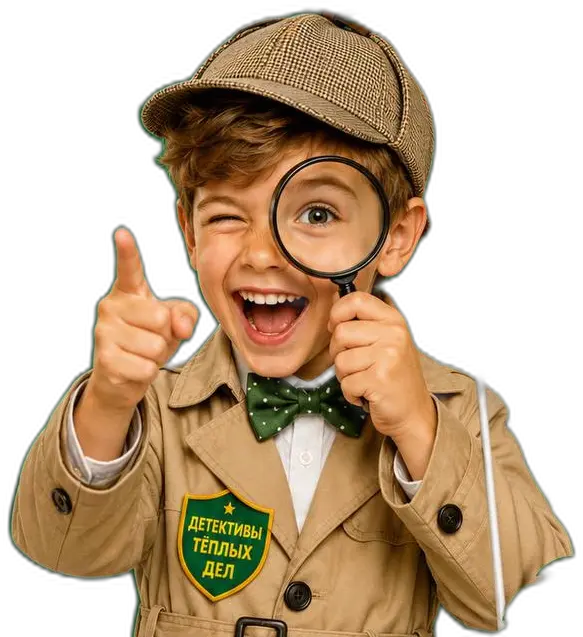
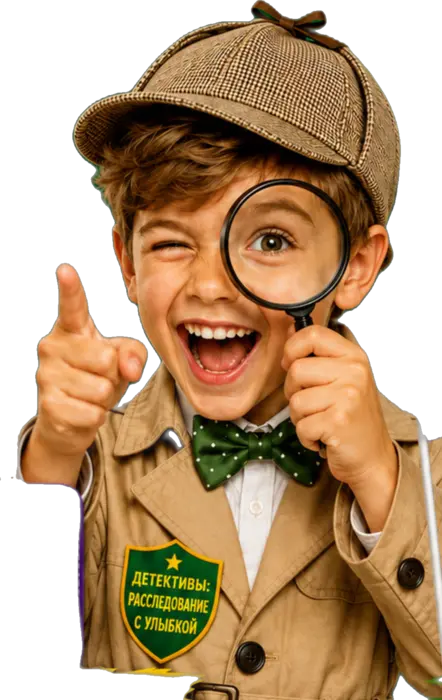
vipusk

diff --git a/vypusknoy.html b/vypusknoy.html
@@ -156,10 +156,10 @@
     <div class="program-pkg-grid">
 
       <div class="program-pkg">
-        <div class="program-pkg__photo"><img src="assets/vypusknoy/detektivy-teplyh-del.webp" alt="Детективы тёплых дел"></div>
+        <div class="program-pkg__photo"><img src="assets/vypusknoy/detektivy-teplyh-del.webp" alt="Детективы: расследование с улыбкой"></div>
         <div class="program-pkg__head">
-          <h2 class="program-pkg__title">Детективы тёплых дел</h2>
-          <p class="program-pkg__subtitle">Расследование с улыбкой</p>
+          <h2 class="program-pkg__title">Детективы: расследование с улыбкой</h2>
+          <p class="program-pkg__subtitle">Для начальной школы</p>
         </div>
         <div class="program-pkg__body">
           <div class="program-pkg__meta">
@@ -167,27 +167,148 @@
             <span class="meta-chip">от 11 детей</span>
           </div>
 
-          <p class="program-pkg__desc">В парке случилось загадочное происшествие — пропала Улыбка Лета! Без неё деревья стали слишком серьёзными, цветы загрустили, а птицы совсем забыли весёлые песни. Пора собирать команду юных сыщиков и отправляться на поиски!</p>
-          <p class="program-pkg__desc">Ребят ждёт настоящее детективное приключение: они будут открывать секретные конверты с заданиями, искать спрятанные «следы радости», проверять свою внимательность в игре «Что изменилось вокруг?» и расшифровывать весёлые коды, из которых складываются добрые слова. А в финале всей команде предстоит собрать большой пазл, разгадать последнюю подсказку и вернуть Улыбку Лета обратно в «Джунгли Сити»!</p>
+          <p class="program-pkg__desc">В «Джунгли Сити» пропала Улыбка Лета! Юным сыщикам предстоит искать тайные подсказки, открывать секретные конверты, разгадывать весёлые коды и всей командой раскрыть главное дело праздника.</p>
 
           <p class="program-pkg__list-title">В программе:</p>
           <ul class="program-pkg__list">
-            <li><svg viewBox="0 0 24 24" fill="none" stroke="currentColor" stroke-width="2.5" stroke-linecap="round" stroke-linejoin="round"><path d="M20 6L9 17l-5-5"/></svg>Задания и загадки</li>
-            <li><svg viewBox="0 0 24 24" fill="none" stroke="currentColor" stroke-width="2.5" stroke-linecap="round" stroke-linejoin="round"><path d="M20 6L9 17l-5-5"/></svg>Поиск спрятанных подсказок</li>
-            <li><svg viewBox="0 0 24 24" fill="none" stroke="currentColor" stroke-width="2.5" stroke-linecap="round" stroke-linejoin="round"><path d="M20 6L9 17l-5-5"/></svg>Игры на внимание и наблюдательность</li>
-            <li><svg viewBox="0 0 24 24" fill="none" stroke="currentColor" stroke-width="2.5" stroke-linecap="round" stroke-linejoin="round"><path d="M20 6L9 17l-5-5"/></svg>Расшифровка кодов</li>
-            <li><svg viewBox="0 0 24 24" fill="none" stroke="currentColor" stroke-width="2.5" stroke-linecap="round" stroke-linejoin="round"><path d="M20 6L9 17l-5-5"/></svg>Командный финальный пазл</li>
+            <li><svg viewBox="0 0 24 24" fill="none" stroke="currentColor" stroke-width="2.5" stroke-linecap="round" stroke-linejoin="round"><path d="M20 6L9 17l-5-5"/></svg>Детективные загадки и задания</li>
+            <li><svg viewBox="0 0 24 24" fill="none" stroke="currentColor" stroke-width="2.5" stroke-linecap="round" stroke-linejoin="round"><path d="M20 6L9 17l-5-5"/></svg>Поиск «следов радости»</li>
+            <li><svg viewBox="0 0 24 24" fill="none" stroke="currentColor" stroke-width="2.5" stroke-linecap="round" stroke-linejoin="round"><path d="M20 6L9 17l-5-5"/></svg>Игры на внимание</li>
+            <li><svg viewBox="0 0 24 24" fill="none" stroke="currentColor" stroke-width="2.5" stroke-linecap="round" stroke-linejoin="round"><path d="M20 6L9 17l-5-5"/></svg>Секретные шифры</li>
+            <li><svg viewBox="0 0 24 24" fill="none" stroke="currentColor" stroke-width="2.5" stroke-linecap="round" stroke-linejoin="round"><path d="M20 6L9 17l-5-5"/></svg>Большой командный пазл в финале</li>
           </ul>
 
           <div class="program-pkg__bonus">
             <svg viewBox="0 0 24 24" fill="none" stroke="currentColor" stroke-width="1.7" stroke-linecap="round" stroke-linejoin="round"><rect x="4" y="10.5" width="16" height="9.5" rx="1"/><path d="M4 14.5h16"/><path d="M12 10.5v9.5"/><path d="M12 10.5c-1.2-3.2-5.2-3-5 .3.1 0-.2-.3 5-.3Z"/><path d="M12 10.5c1.2-3.2 5.2-3 5 .3-.1 0 .2-.3-5-.3Z"/></svg>
-            Мастер-класс по созданию подарка выпускнику
+            Мастер-класс по созданию памятного подарка
           </div>
 
           <div class="program-pkg__addons">
             <p class="program-pkg__addons-title">Дополнить программу шоу:</p>
             <ul>
-              <li>Серебряная дискотека</li>
+              <li>Весёлые опыты</li>
+              <li>Мыльные пузыри</li>
+              <li>Гигантская дискотека с надувными подушками и мягким поролоном</li>
+            </ul>
+            <span class="program-pkg__price">от 350 ₽/ребёнок</span>
+          </div>
+        </div>
+      </div>
+
+      <div class="program-pkg">
+        <div class="program-pkg__photo"><img src="assets/vypusknoy/gorod-professiy.webp" alt="Город профессий"></div>
+        <div class="program-pkg__head">
+          <h2 class="program-pkg__title">Город профессий</h2>
+          <p class="program-pkg__subtitle">Для детского сада</p>
+        </div>
+        <div class="program-pkg__body">
+          <div class="program-pkg__meta">
+            <span class="meta-chip">60 мин</span>
+            <span class="meta-chip">от 11 детей</span>
+          </div>
+
+          <p class="program-pkg__desc">В «Джунгли Сити» открывается город необычных профессий! Ребят ждут весёлые испытания, где пригодятся ловкость, фантазия и умение работать в команде.</p>
+          <p class="program-pkg__desc">Здесь можно создавать рецепты радости, строить целые города и превращать самые обычные вещи в настоящее веселье!</p>
+
+          <p class="program-pkg__list-title">В программе:</p>
+          <ul class="program-pkg__list">
+            <li><svg viewBox="0 0 24 24" fill="none" stroke="currentColor" stroke-width="2.5" stroke-linecap="round" stroke-linejoin="round"><path d="M20 6L9 17l-5-5"/></svg>Весёлая эстафета «Добавьте радости!»</li>
+            <li><svg viewBox="0 0 24 24" fill="none" stroke="currentColor" stroke-width="2.5" stroke-linecap="round" stroke-linejoin="round"><path d="M20 6L9 17l-5-5"/></svg>Задания на ловкость и скорость</li>
+            <li><svg viewBox="0 0 24 24" fill="none" stroke="currentColor" stroke-width="2.5" stroke-linecap="round" stroke-linejoin="round"><path d="M20 6L9 17l-5-5"/></svg>Необычные профессии и роли</li>
+            <li><svg viewBox="0 0 24 24" fill="none" stroke="currentColor" stroke-width="2.5" stroke-linecap="round" stroke-linejoin="round"><path d="M20 6L9 17l-5-5"/></svg>Строительство «Города Весёлых Соседей»</li>
+            <li><svg viewBox="0 0 24 24" fill="none" stroke="currentColor" stroke-width="2.5" stroke-linecap="round" stroke-linejoin="round"><path d="M20 6L9 17l-5-5"/></svg>Большой командный финал</li>
+          </ul>
+
+          <div class="program-pkg__bonus">
+            <svg viewBox="0 0 24 24" fill="none" stroke="currentColor" stroke-width="1.7" stroke-linecap="round" stroke-linejoin="round"><rect x="4" y="10.5" width="16" height="9.5" rx="1"/><path d="M4 14.5h16"/><path d="M12 10.5v9.5"/><path d="M12 10.5c-1.2-3.2-5.2-3-5 .3.1 0-.2-.3 5-.3Z"/><path d="M12 10.5c1.2-3.2 5.2-3 5 .3-.1 0 .2-.3-5-.3Z"/></svg>
+            Мастер-класс по созданию памятного подарка
+          </div>
+
+          <div class="program-pkg__addons">
+            <p class="program-pkg__addons-title">Дополнить программу шоу:</p>
+            <ul>
+              <li>Весёлые опыты</li>
+              <li>Мыльные пузыри</li>
+              <li>Гигантская дискотека с надувными подушками и мягким поролоном</li>
+            </ul>
+            <span class="program-pkg__price">от 350 ₽/ребёнок</span>
+          </div>
+        </div>
+      </div>
+
+      <div class="program-pkg">
+        <div class="program-pkg__photo"><img src="assets/vypusknoy/tusa-dzhusa.webp" alt="Туса Джуса"></div>
+        <div class="program-pkg__head">
+          <h2 class="program-pkg__title">Туса Джуса</h2>
+          <p class="program-pkg__subtitle">Для любого возраста</p>
+        </div>
+        <div class="program-pkg__body">
+          <div class="program-pkg__meta">
+            <span class="meta-chip">60 мин</span>
+            <span class="meta-chip">от 11 детей</span>
+          </div>
+
+          <p class="program-pkg__desc">В «Джунгли Сити» начинается настоящий блогерский батл! Ребят ждут шумные челленджи, смешные задания, яркие перевоплощения и командные испытания.</p>
+          <p class="program-pkg__desc">Здесь главное — собрать максимум эмоций, смеха и лайков!</p>
+
+          <p class="program-pkg__list-title">В программе:</p>
+          <ul class="program-pkg__list">
+            <li><svg viewBox="0 0 24 24" fill="none" stroke="currentColor" stroke-width="2.5" stroke-linecap="round" stroke-linejoin="round"><path d="M20 6L9 17l-5-5"/></svg>Челлендж «Переозвучка»</li>
+            <li><svg viewBox="0 0 24 24" fill="none" stroke="currentColor" stroke-width="2.5" stroke-linecap="round" stroke-linejoin="round"><path d="M20 6L9 17l-5-5"/></svg>«Зеркальный батл»</li>
+            <li><svg viewBox="0 0 24 24" fill="none" stroke="currentColor" stroke-width="2.5" stroke-linecap="round" stroke-linejoin="round"><path d="M20 6L9 17l-5-5"/></svg>«Съедобное — несъедобное 2.0»</li>
+            <li><svg viewBox="0 0 24 24" fill="none" stroke="currentColor" stroke-width="2.5" stroke-linecap="round" stroke-linejoin="round"><path d="M20 6L9 17l-5-5"/></svg>«Селфи-гонка»</li>
+            <li><svg viewBox="0 0 24 24" fill="none" stroke="currentColor" stroke-width="2.5" stroke-linecap="round" stroke-linejoin="round"><path d="M20 6L9 17l-5-5"/></svg>Финальный танец блогеров</li>
+          </ul>
+
+          <div class="program-pkg__bonus">
+            <svg viewBox="0 0 24 24" fill="none" stroke="currentColor" stroke-width="1.7" stroke-linecap="round" stroke-linejoin="round"><rect x="4" y="10.5" width="16" height="9.5" rx="1"/><path d="M4 14.5h16"/><path d="M12 10.5v9.5"/><path d="M12 10.5c-1.2-3.2-5.2-3-5 .3.1 0-.2-.3 5-.3Z"/><path d="M12 10.5c1.2-3.2 5.2-3 5 .3-.1 0 .2-.3-5-.3Z"/></svg>
+            Мастер-класс по созданию памятного подарка
+          </div>
+
+          <div class="program-pkg__addons">
+            <p class="program-pkg__addons-title">Дополнить программу шоу:</p>
+            <ul>
+              <li>Весёлые опыты</li>
+              <li>Мыльные пузыри</li>
+              <li>Гигантская дискотека с надувными подушками и мягким поролоном</li>
+            </ul>
+            <span class="program-pkg__price">от 350 ₽/ребёнок</span>
+          </div>
+        </div>
+      </div>
+
+      <div class="program-pkg">
+        <div class="program-pkg__photo"><img src="assets/vypusknoy/skazochnyj-komas.webp" alt="Сказочный Комас"></div>
+        <div class="program-pkg__head">
+          <h2 class="program-pkg__title">Сказочный Комас</h2>
+          <p class="program-pkg__subtitle">Для маленькой компании</p>
+        </div>
+        <div class="program-pkg__body">
+          <div class="program-pkg__meta">
+            <span class="meta-chip">40 мин</span>
+            <span class="meta-chip">от 7 до 10 детей</span>
+          </div>
+
+          <p class="program-pkg__desc">В «Джунгли Сити» сказки вдруг заскучали — и только ребята смогут вернуть им радость! Вместе с любимыми героями дети отправятся в весёлое путешествие.</p>
+          <p class="program-pkg__desc">Будут искать подсказки, спасать пирожки, преодолевать болото, проверять богатырскую силу и танцевать с Ясным Солнышком!</p>
+
+          <p class="program-pkg__list-title">В программе:</p>
+          <ul class="program-pkg__list">
+            <li><svg viewBox="0 0 24 24" fill="none" stroke="currentColor" stroke-width="2.5" stroke-linecap="round" stroke-linejoin="round"><path d="M20 6L9 17l-5-5"/></svg>Большая книга сказок с подсказками</li>
+            <li><svg viewBox="0 0 24 24" fill="none" stroke="currentColor" stroke-width="2.5" stroke-linecap="round" stroke-linejoin="round"><path d="M20 6L9 17l-5-5"/></svg>Эстафета «Верните пирожки в печку»</li>
+            <li><svg viewBox="0 0 24 24" fill="none" stroke="currentColor" stroke-width="2.5" stroke-linecap="round" stroke-linejoin="round"><path d="M20 6L9 17l-5-5"/></svg>Испытание на богатырскую силу</li>
+            <li><svg viewBox="0 0 24 24" fill="none" stroke="currentColor" stroke-width="2.5" stroke-linecap="round" stroke-linejoin="round"><path d="M20 6L9 17l-5-5"/></svg>Весёлое путешествие через болото</li>
+            <li><svg viewBox="0 0 24 24" fill="none" stroke="currentColor" stroke-width="2.5" stroke-linecap="round" stroke-linejoin="round"><path d="M20 6L9 17l-5-5"/></svg>Танец с Ясным Солнышком</li>
+          </ul>
+
+          <div class="program-pkg__bonus">
+            <svg viewBox="0 0 24 24" fill="none" stroke="currentColor" stroke-width="1.7" stroke-linecap="round" stroke-linejoin="round"><rect x="4" y="10.5" width="16" height="9.5" rx="1"/><path d="M4 14.5h16"/><path d="M12 10.5v9.5"/><path d="M12 10.5c-1.2-3.2-5.2-3-5 .3.1 0-.2-.3 5-.3Z"/><path d="M12 10.5c1.2-3.2 5.2-3 5 .3-.1 0 .2-.3-5-.3Z"/></svg>
+            Мастер-класс по созданию памятного подарка
+          </div>
+
+          <div class="program-pkg__addons">
+            <p class="program-pkg__addons-title">Дополнить программу шоу:</p>
+            <ul>
               <li>Весёлые опыты</li>
               <li>Мыльные пузыри</li>
               <li>Гигантская дискотека с надувными подушками и мягким поролоном</li>
